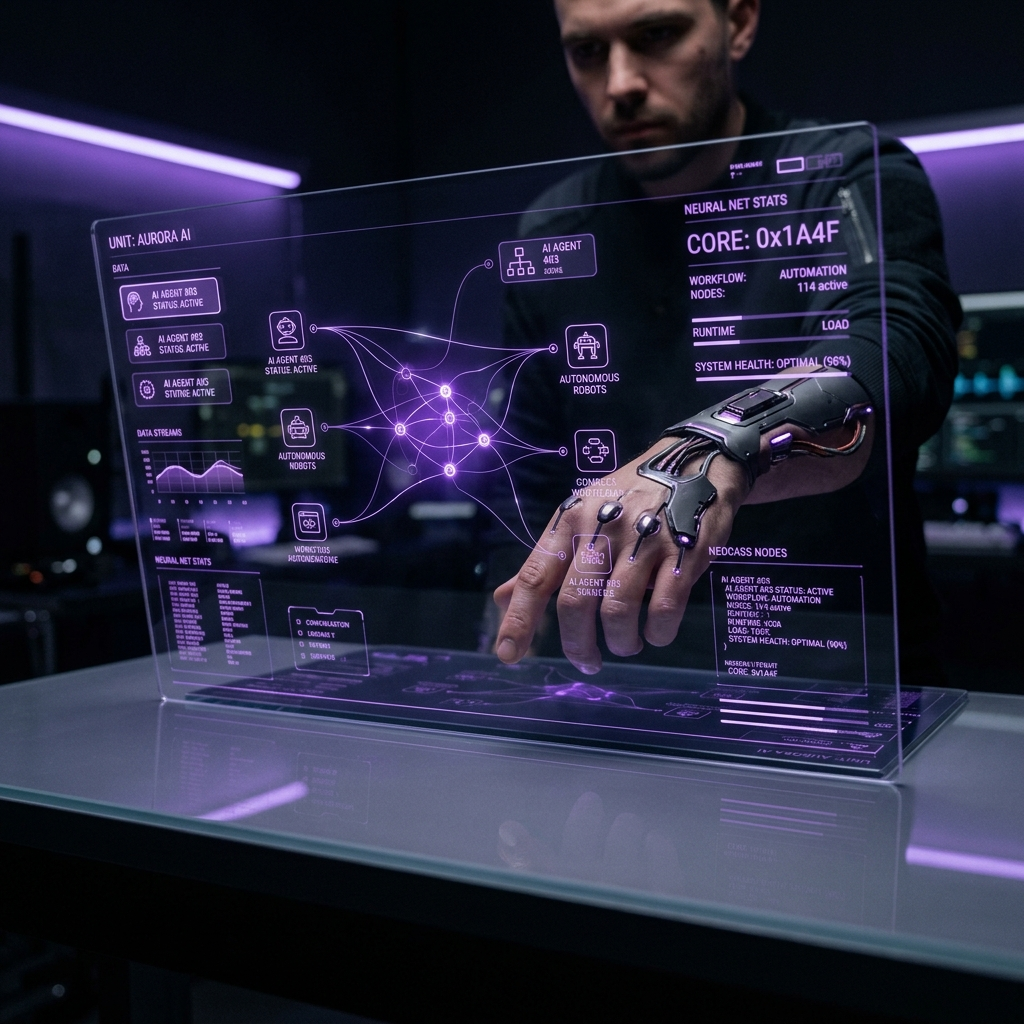
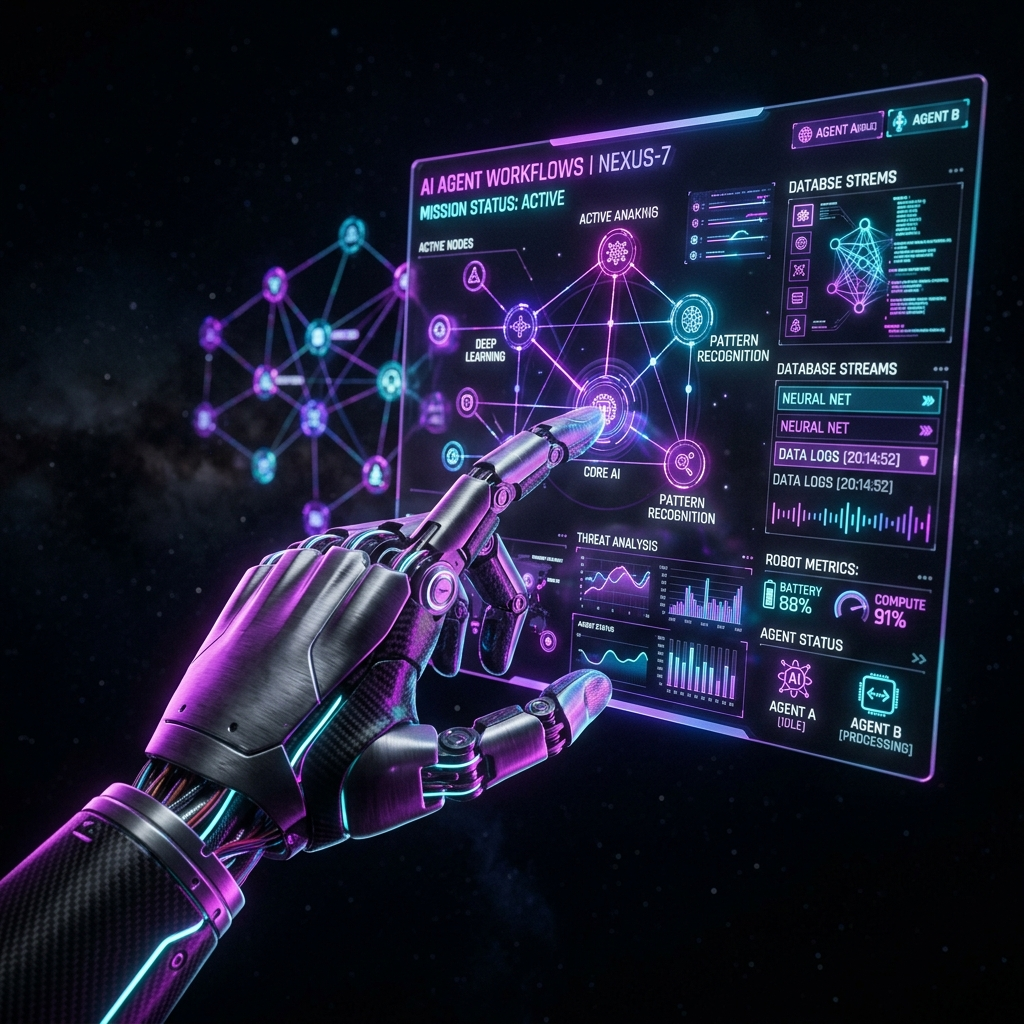
style(projects): replace PHHub cover with realistic holographic hand dashboard cover

diff --git a/LOGS.md b/LOGS.md
@@ -312,7 +312,7 @@ _Maintained by Antigravity AI._
   - Corrigido o bug visual do text-clipping nos cards de projeto: removemos a propriedade de `height` fixa da classe `.wf-project-card__desc`, permitindo que o navegador realize o line-clamping nativo de exatamente 3 linhas com reticências (`...`) de forma fluida, eliminando a exibição residual cortada de partes de letras da quarta linha.
   - Atualizada a temática de cor do projeto OdontoSync para um tom de verde-água/mente mais forte e saturado (`#05A093` e glow `rgba(5, 160, 147, 0.15)`), garantindo legibilidade perfeita e alta taxa de contraste de 4.5:1 com textos brancos em botões ativos e badges.
   - Implementada a galeria interativa para o projeto PHHub no mesmo estilo premium do OdontoSync: estruturamos as 7 capturas de tela enviadas pelo usuário em duas abas (🧪 Laboratório Core e 🧠 IA & Conectores) e copiamos os arquivos para `src/assets/projects/PHHub/`.
-  - Geramos uma imagem cinematográfica com IA para o PHHub baseada no print do dashboard principal da aplicação, salvando-a em `view-image.jpg` para ser exibida nos cards do portfólio e como fundo de marca d'água no modal.
+  - Geramos uma imagem cinematográfica com IA para o PHHub baseada no print do dashboard principal da aplicação, salvando-a em `view-image.jpg` para ser exibida nos cards do portfólio e como fundo de marca d'água no modal. Posteriormente, remodelamos a imagem para um estilo mais sutil, menos "genérico de IA" e mais fiel: uma mão humana com aprimoramentos cibernéticos tocando um painel holográfico minimalista roxo contendo informações e fluxos de IA (agentes, robôs, workflows).
   - Refatoramos e generalizamos completamente o componente `Projects.tsx` para tratar a interface de galeria interativa, zoom, onboarding e abas de forma genérica (via flag `hasTabs`), permitindo que ambos os projetos (PHHub e OdontoSync) compartilhem a mesma lógica sem duplicação de código.
 
 